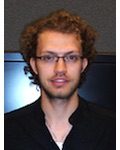
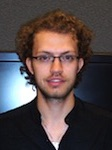
Cropping whitespace in photos and improving placeholder image

diff --git a/templates/macros.html b/templates/macros.html
@@ -103,7 +103,10 @@
 {% endmacro paper %}
 
 {% macro person(name, role, url, photo, photo_size) %}
-{% set image = resize_image(path="/people/photos/" ~ photo, width=photo_size, height=photo_size, op="fit", format="jpeg", quality=90) %}
+{% if not photo %}
+    {% set photo = "no-photo.png" %}
+{% endif %}
+{% set image = resize_image(path="/people/photos/" ~ photo, width=photo_size, height=photo_size, op="fit", quality=90) %}
 {% if url %}
 <a class="person" style="max-width: {{ photo_size / 2 }}px;" target="_blank" rel="noopener" rel="noreferrer" href="{{ url }}">
 {% else %}
